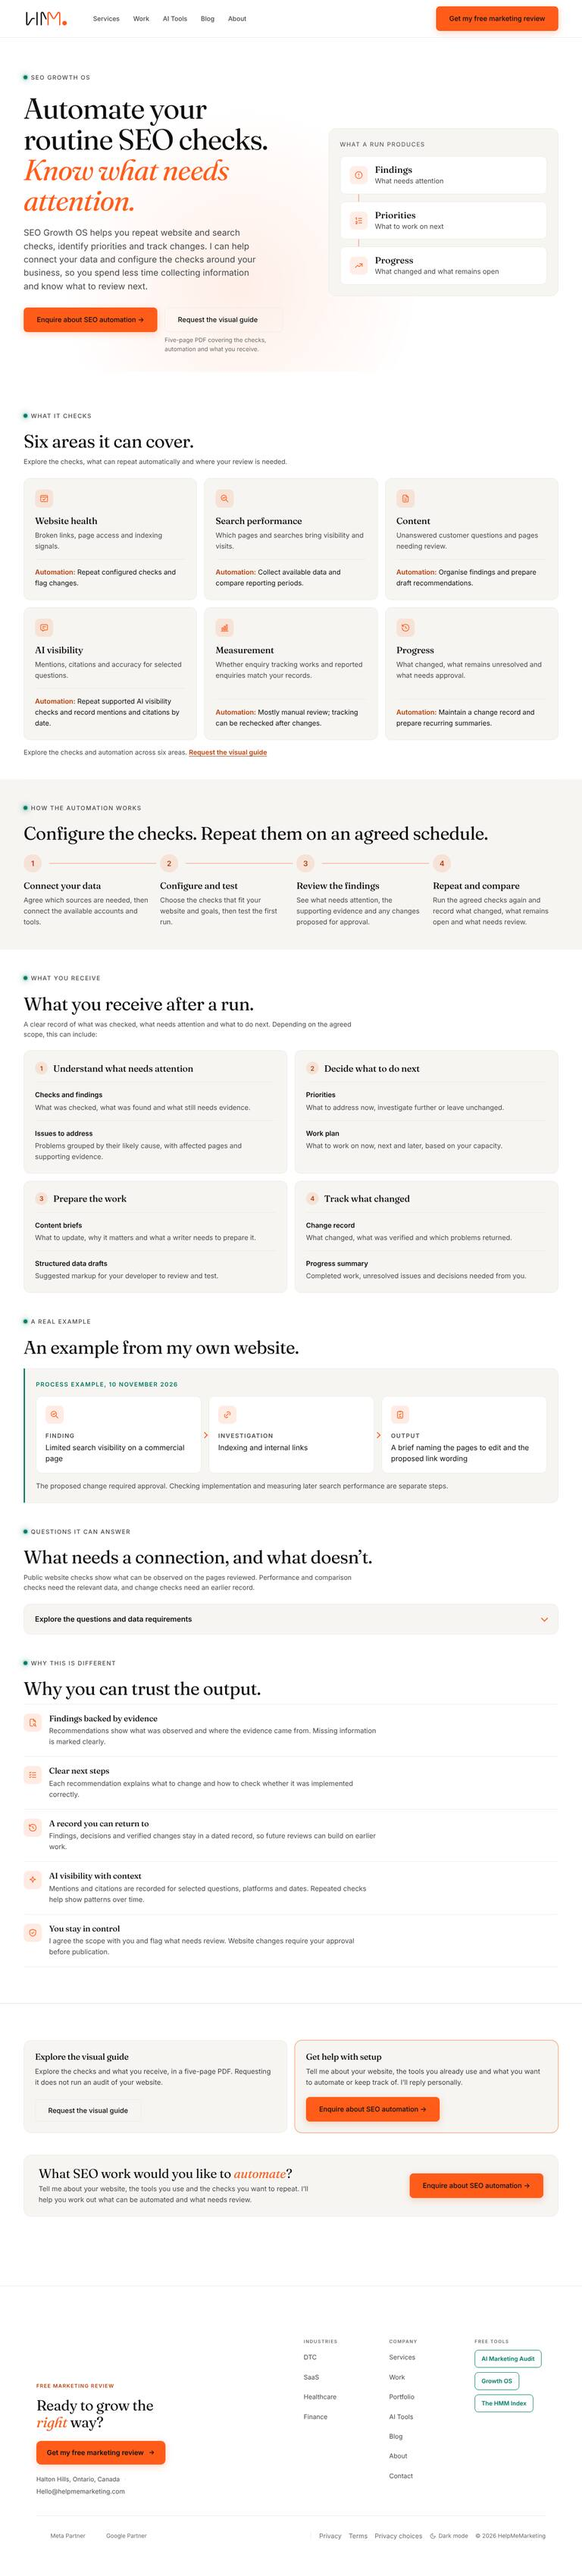
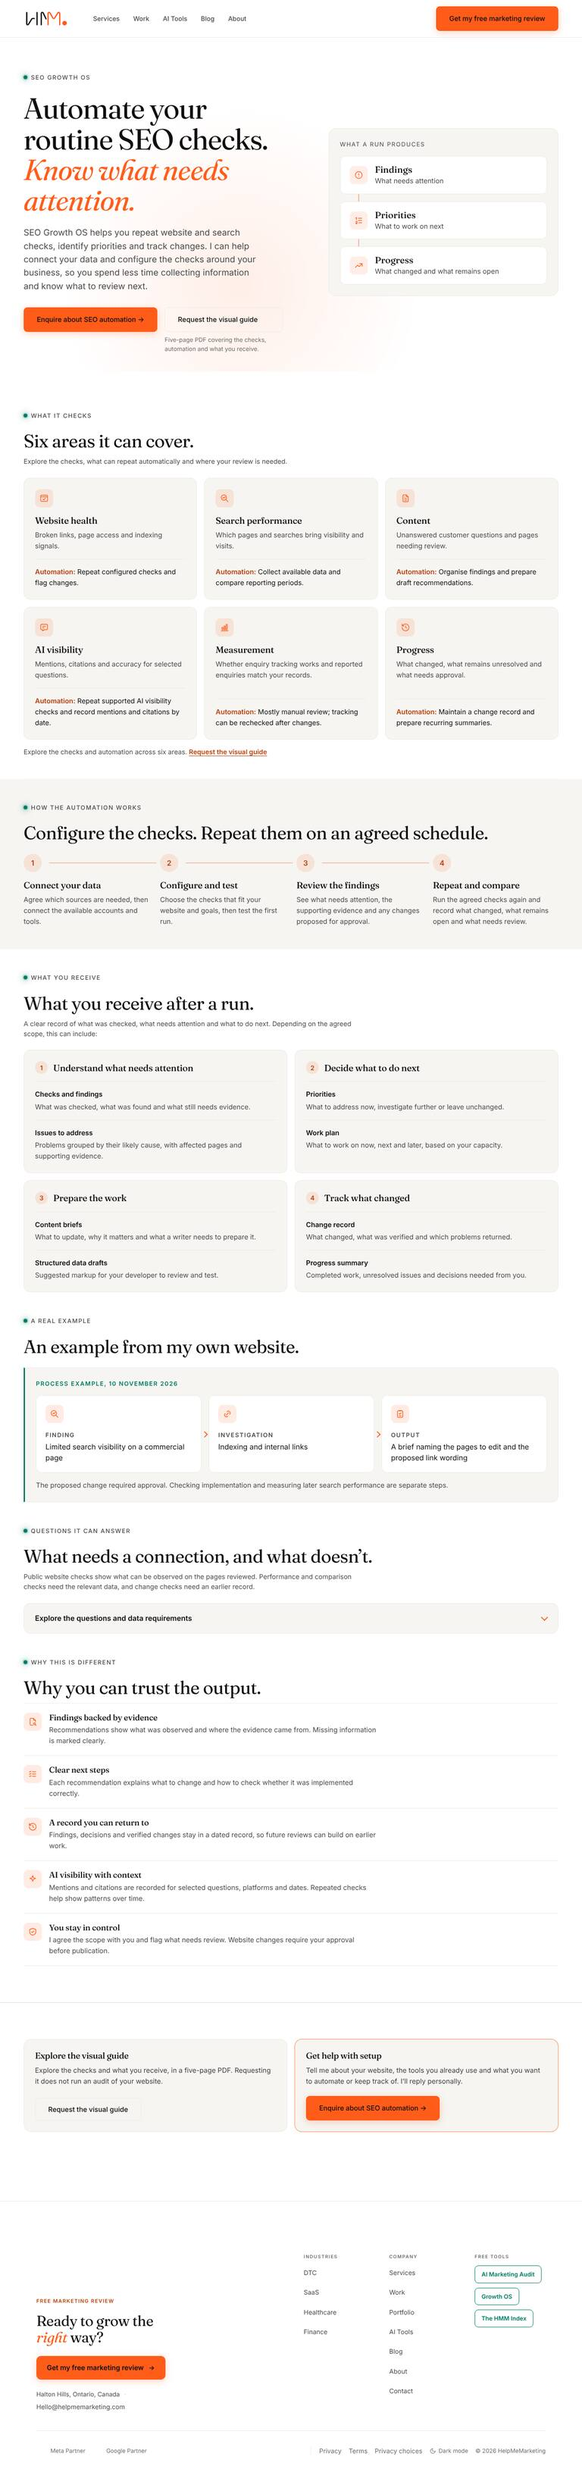
SEO Growth OS page: end on the two path cards
Removes the separate final automation band, which repeated the setup card's
enquiry button. The page now closes with one choice: explore the guide or
enquire about setup, with 72px (48 on phones) before the footer.
Screenshots refreshed.

Claude-Session: https://claude.ai/code/session_018Zqg63gvGy44sVUM5NEbiy

diff --git a/styles.css b/styles.css
@@ -6303,13 +6303,8 @@ body.redesign-prototype [data-screen-label="seo-growth-os"] .gos-paths .ind2-car
 body.redesign-prototype [data-screen-label="seo-growth-os"] .gos-paths .ind2-card h3 { margin: 0; }
 body.redesign-prototype [data-screen-label="seo-growth-os"] .gos-paths .ind2-card p { margin: 8px 0 20px; font-size: 15px; line-height: 1.6; color: var(--text-body); }
 body.redesign-prototype [data-screen-label="seo-growth-os"] .gos-paths .ind2-card .btn { margin-top: auto; }
+body.redesign-prototype [data-screen-label="seo-growth-os"] .gos-paths { padding-bottom: 72px; }
 body.redesign-prototype [data-screen-label="seo-growth-os"] .gos-paths .gos-path-main { border-color: rgba(255, 92, 26, 0.55); box-shadow: 0 0 0 1px rgba(255, 92, 26, 0.25); }
-body.redesign-prototype [data-screen-label="seo-growth-os"] .gos-final-section { padding: 0 0 72px; }
-body.redesign-prototype [data-screen-label="seo-growth-os"] .gos-final { display: flex; align-items: center; justify-content: space-between; gap: 24px; padding: 24px 32px; border: 1px solid var(--border); border-radius: 16px; background: var(--bg-elevated); }
-body.redesign-prototype [data-screen-label="seo-growth-os"] .gos-final h2 { margin: 0 0 4px; font-family: 'Fraunces', Georgia, serif; font-size: 28px; font-weight: 400; line-height: 1.2; letter-spacing: -.01em; }
-body.redesign-prototype [data-screen-label="seo-growth-os"] .gos-final h2 em { font-style: italic; color: var(--cta); }
-body.redesign-prototype [data-screen-label="seo-growth-os"] .gos-final p { margin: 0; max-width: 620px; font-size: 15px; line-height: 1.6; color: var(--text-muted); }
-body.redesign-prototype [data-screen-label="seo-growth-os"] .gos-final .btn { flex: none; }
 @media (max-width: 900px) {
   body.redesign-prototype [data-screen-label="seo-growth-os"] .gos-areas { grid-template-columns: repeat(2, 1fr); }
   body.redesign-prototype [data-screen-label="seo-growth-os"] .gos-flow { grid-template-columns: repeat(2, 1fr); }
@@ -6328,7 +6323,5 @@ body.redesign-prototype [data-screen-label="seo-growth-os"] .gos-final .btn { fl
   body.redesign-prototype [data-screen-label="seo-growth-os"] .gos-stages li:not(:last-child)::after { top: auto; bottom: -13px; right: auto; left: 28px; transform: rotate(135deg); }
   body.redesign-prototype [data-screen-label="seo-growth-os"] .gos-details > summary { padding: 16px 20px; }
   body.redesign-prototype [data-screen-label="seo-growth-os"] .gos-details-body { padding: 0 16px 16px; }
-  body.redesign-prototype [data-screen-label="seo-growth-os"] .gos-final { flex-direction: column; align-items: flex-start; padding: 24px 20px; }
-  body.redesign-prototype [data-screen-label="seo-growth-os"] .gos-final h2 { font-size: 24px; }
-  body.redesign-prototype [data-screen-label="seo-growth-os"] .gos-final-section { padding-bottom: 48px; }
+  body.redesign-prototype [data-screen-label="seo-growth-os"] .gos-paths { padding-bottom: 48px; }
 }

diff --git a/seo-growth-os.html b/seo-growth-os.html
@@ -515,17 +515,6 @@ height="0" width="0" class="gtm-ns"></iframe></noscript>
   </div>
 </section>
 
-<section class="gos-final-section">
-  <div class="container">
-    <div class="gos-final">
-      <div>
-        <h2>What SEO work would you like to <em>automate</em>?</h2>
-        <p>Tell me about your website, the tools you use and the checks you want to repeat. I&rsquo;ll help you work out what can be automated and what needs review.</p>
-      </div>
-      <a class="btn btn-primary" href="/contact?entry=seo_automation#contact-form">Enquire about SEO automation &rarr;</a>
-    </div>
-  </div>
-</section>
 
 </div>
 

diff --git a/docs/HMM_Design_System.md b/docs/HMM_Design_System.md
@@ -1653,4 +1653,4 @@ No inline styles, no Review or Rating markup; JSON-LD is BreadcrumbList, Article
 
 **SEO Growth OS page positioning, first pass (2026-11-11, founder review).** `/seo-growth-os` leads with recurring checks and the two paths: H1 "Automate your routine SEO checks. Know what to work on next."; buttons "Request SEO Growth OS" (the email gate) and "Get help with setup" (`/contact#contact-form`; orange by the sitewide contact-button rule); notes "Setup is required. You review and approve changes before anything goes live." and "Free bundle · release 2.2.1 · no card. Supported AI tools and some data sources may have their own costs." The page now matches the installed skill (no aggregate score; six steps): the "Health Score 0–100" output became "Coverage and status", the starter prompt asks for category status and coverage with no overall score, the trust copy lists unmeasured categories as missing evidence, and the Service and WebPage JSON-LD describe six steps, not a seven-stage 500-page programme. "Built in" now reads "included in the bundle; installation and setup required"; the outputs section says results depend on the checks chosen and evidence available; the "sample report is coming" promise was removed until a real redacted report exists; the closing box offers setup help instead of the free marketing review. Title "SEO Growth OS: SEO Automation and Setup | HelpMeMarketing". Open: the installed skill reports release 2.2.2 while the page says 2.2.1 (founder to confirm the bundle version); the reorganisation around the visitor's decisions and a real report example are the next pass.
 
-**SEO Growth OS page: checklist and automation offer (2026-11-11, founder review, supersedes the first-pass note above).** `/seo-growth-os` no longer offers the skills bundle; the skills, prompts, scripts and installation package stay private. Two paths: "Enquire about SEO automation" (primary, `/contact?entry=seo_automation#contact-form`) and "Request the full checklist" (outline button and text buttons with `data-gate-open`, the existing email gate). Page order: hero (H1 "Automate your routine SEO checks. Know what needs attention."); What it checks (`#checks`, six-area `mr-table` matching the checklist's six areas, with examples and what can be automated, `.gos-map`); How the automation works (four `ind2-step`s: connect data, configure checks, review and approve, repeat on a schedule); What you receive (the outputs list, "Phased plan" replaces "30/60/90 Plan"); Questions it can answer (the matrix, columns "Website only" and "With connected data", legend "Website / Connect / Costs"); Why you can trust the output; two path cards (`.gos-paths`); final CTA "See what I check, and what I can automate for you." Removed: the node row, business-type picker, specialist skills stack, starter prompt, the three-column method block and their script. The gate dialog asks for an email and optional consent and sends "the checklist" (button "Send me the checklist"; backend keys `form=growth-os-download`, `product=seo`, Turnstile action and the `growth_os_download` event are unchanged for continuity). The customer download is the SEO Growth OS Visual Guide (founder decision 2026-11-11; the checklist PDF and its generator were retired the same day; cut from nine pages to five later that day, founder brief; tiles shortened and two badges retired the same evening, founder), generated by `docs/growth-os-checklist/gen_visual_guide.py` (edit the content lists there, never the HTML) and rendered by `build_visual_guide.mjs` to `HMM-SEO-Growth-OS-Visual-Guide.pdf`, which warns if any page overflows. Five fixed US Letter pages in HMM colours (warm paper, white cards, Signal Orange accents, Fraunces and Inter, no standalone cover): 1 "Where should you start?" (compact Obsidian intro with the logo, a problem-to-starting-point table, the six areas as an icon grid, the label legend with two rows, Draft + review and Human review, and the one scope note); 2 Website health and search performance, 3 Content and AI visibility, 4 Measurement and progress, each six grouped tiles in two columns and three rows; a tile is its icon and title, any badge, one short description (what is checked, what runs automatically and what a person reviews, in plain sentences; no separate Checks, Automates or Review labels), a thin divider and "You receive:" in orange with one output, body text 11pt, every original check kept; 5 the six-stage flow (stages can span runs), the 10 November 2026 process example, what you receive, what setup needs and the clickable enquiry link (`/contact?entry=seo_automation#contact-form`). Tile badges: "Draft + review" (prepares suggestions for a person to assess) and "Human review" (needs judgment or validation), plus dashed tags "Optional" and "Only where it applies" for conditional tiles. A tile whose only mode was scheduled or around a change carries no badge and goes straight from title to description; "Scheduled check" and "On change" are retired from the guide and its legend (founder, 2026-11-11), and scheduling is described in the tile text instead. Do not add replacement badges. Spacing (founder, 2026-11-11): one scale of 4, 8, 12, 16 and 24px set as tokens in the guide CSS. Every page has the same margins (0.5in top, 0.55in sides, footer 0.35in from the bottom) and content starts 48px from the top. Blocks on a page are 24px apart, a heading sits 12px above its block, grids use 16px gaps, boxes use 16px 20px padding and a 12px radius, table rows use 8px 20px, and inside a tile the title, badge, description and divider are 12px apart. Change the tokens, not individual rules, and keep at least 16px between the last block and the footer. Video is left out because the current images module has no specific video checks; location and service pages follow rule registry G-12 (useful differences, not a uniqueness percentage); the conversion card follows the CRO audit (offer, calls to action, friction). No capability count, no repeated not-an-audit, ranking, score or skill-file disclaimers, and no internal test history. The page, gate ("Request the visual guide", "Where should I send the guide?", "Send me the guide", description "Explore the checks and automation across six areas, what you receive and where human review is needed."; since 2026-11-11 the newsletter checkbox is replaced by the notice `.consent-note` "Requesting the guide also adds you to my occasional SEO notes and updates. Every email has an unsubscribe link.", founder decision) and email name the SEO Growth OS Visual Guide, and the page says "Explore the checks and automation across six areas" rather than a count. The forms script emails it from Drive (`SEO_CHECKLIST_FILE_ID`, which the founder sets after uploading the PDF); `checklistBlob_()` refuses a placeholder ID, a missing or unshared file and anything whose Drive type or content is not PDF, and a checklist request replies `email: 'sent'` or `'failed'` alongside `saved: 'lead'`, so the dialog shows "Check your inbox" only for `sent` and otherwise says the request is saved and I will send it by hand (the row records the failure reason). New contact entry tags `seo_automation` and `ai_seo_setup` (contact.html and the forms script). `/ai-seo-agency` "SEO automation" cards: "See what it checks" (to `/seo-growth-os#checks`) and "Get help with setup" (`entry=ai_seo_setup`). Also aligned: `/services/seo`, `/ai-tools` card, `/work` (no check count until the inventory is verified; its "free to download" line now names Meta Growth OS only). Copy pass (2026-11-12, founder review): the page tells one story (what you can automate, what gets checked, how setup works, what you receive, a real example, what to do next). The hero note describes the guide ("The visual guide is a five-page PDF covering the checks, automation and what you receive."); the four steps are Connect your data, Configure and test, Review the findings, Repeat and compare (the Service JSON-LD offer catalogue lists the same four); "What you receive after a run" has eight plain cards (Checks and findings, Issues to address, Priorities, Work plan, Content briefs, Structured data drafts, Change record, Progress summary); a new section, `.gos-example` (mint left rule, "Process example, 10 November 2026"), repeats the guide's example with no ranking claim; the questions table words each question as what can be observed, and cells that need a previous run or a specific source say "Needs earlier results" or "Needs relevant data" (`.c.part`, short forms "Earlier run" and "Data source" at 680px and below) instead of a tick; the trust section is five plain statements (evidence, next steps, a dated record, AI visibility with context, you stay in control); the final CTA asks "What SEO work would you like to automate?" with one enquiry button. Visual hierarchy (2026-11-12, founder review, same copy): the hero image is replaced by `.gos-run` ("What a run produces": Findings, Priorities, Progress as three connected cards, no numbers), and the guide note sits under the outline button (`.gos-guide-cta`); the six-area table became six `.gos-area` cards (icon, Fraunces 20 title, examples, divider, "Automation:" line; 3/2/1 columns at desktop, 900 and 720); the four steps are a numbered `.gos-flow` sequence on a full-bleed Warm Ivory `.gos-band` (stacked with a vertical line at 720); the eight outputs sit in four numbered `.gos-group`s (Understand what needs attention, Decide what to do next, Prepare the work, Track what changed); the example is the proof panel with three `.gos-stages` (Finding, Investigation, Output) and the approval sentence; the questions table sits in a native `details.gos-details` ("Explore the questions and data requirements", keyboard accessible, content in the HTML); the trust statements are compact `.gos-trust-r` rows with small icons; the setup path card (`.gos-path-main`) carries an orange border; the closing is a compact `.gos-final` band with 72px before the footer. One card system: 24px padding (20 at 720), 14px radius, 16px gaps, 40px icon tiles on `--orange-glow`, 15px body. `/contact?entry=seo_automation` relabels the need field "Tell me what you would like to automate" with an automation example in its placeholder. Release order: upload the visual guide PDF, paste its ID, redeploy the forms script, then merge the page.
+**SEO Growth OS page: checklist and automation offer (2026-11-11, founder review, supersedes the first-pass note above).** `/seo-growth-os` no longer offers the skills bundle; the skills, prompts, scripts and installation package stay private. Two paths: "Enquire about SEO automation" (primary, `/contact?entry=seo_automation#contact-form`) and "Request the full checklist" (outline button and text buttons with `data-gate-open`, the existing email gate). Page order: hero (H1 "Automate your routine SEO checks. Know what needs attention."); What it checks (`#checks`, six-area `mr-table` matching the checklist's six areas, with examples and what can be automated, `.gos-map`); How the automation works (four `ind2-step`s: connect data, configure checks, review and approve, repeat on a schedule); What you receive (the outputs list, "Phased plan" replaces "30/60/90 Plan"); Questions it can answer (the matrix, columns "Website only" and "With connected data", legend "Website / Connect / Costs"); Why you can trust the output; two path cards (`.gos-paths`); final CTA "See what I check, and what I can automate for you." Removed: the node row, business-type picker, specialist skills stack, starter prompt, the three-column method block and their script. The gate dialog asks for an email and optional consent and sends "the checklist" (button "Send me the checklist"; backend keys `form=growth-os-download`, `product=seo`, Turnstile action and the `growth_os_download` event are unchanged for continuity). The customer download is the SEO Growth OS Visual Guide (founder decision 2026-11-11; the checklist PDF and its generator were retired the same day; cut from nine pages to five later that day, founder brief; tiles shortened and two badges retired the same evening, founder), generated by `docs/growth-os-checklist/gen_visual_guide.py` (edit the content lists there, never the HTML) and rendered by `build_visual_guide.mjs` to `HMM-SEO-Growth-OS-Visual-Guide.pdf`, which warns if any page overflows. Five fixed US Letter pages in HMM colours (warm paper, white cards, Signal Orange accents, Fraunces and Inter, no standalone cover): 1 "Where should you start?" (compact Obsidian intro with the logo, a problem-to-starting-point table, the six areas as an icon grid, the label legend with two rows, Draft + review and Human review, and the one scope note); 2 Website health and search performance, 3 Content and AI visibility, 4 Measurement and progress, each six grouped tiles in two columns and three rows; a tile is its icon and title, any badge, one short description (what is checked, what runs automatically and what a person reviews, in plain sentences; no separate Checks, Automates or Review labels), a thin divider and "You receive:" in orange with one output, body text 11pt, every original check kept; 5 the six-stage flow (stages can span runs), the 10 November 2026 process example, what you receive, what setup needs and the clickable enquiry link (`/contact?entry=seo_automation#contact-form`). Tile badges: "Draft + review" (prepares suggestions for a person to assess) and "Human review" (needs judgment or validation), plus dashed tags "Optional" and "Only where it applies" for conditional tiles. A tile whose only mode was scheduled or around a change carries no badge and goes straight from title to description; "Scheduled check" and "On change" are retired from the guide and its legend (founder, 2026-11-11), and scheduling is described in the tile text instead. Do not add replacement badges. Spacing (founder, 2026-11-11): one scale of 4, 8, 12, 16 and 24px set as tokens in the guide CSS. Every page has the same margins (0.5in top, 0.55in sides, footer 0.35in from the bottom) and content starts 48px from the top. Blocks on a page are 24px apart, a heading sits 12px above its block, grids use 16px gaps, boxes use 16px 20px padding and a 12px radius, table rows use 8px 20px, and inside a tile the title, badge, description and divider are 12px apart. Change the tokens, not individual rules, and keep at least 16px between the last block and the footer. Video is left out because the current images module has no specific video checks; location and service pages follow rule registry G-12 (useful differences, not a uniqueness percentage); the conversion card follows the CRO audit (offer, calls to action, friction). No capability count, no repeated not-an-audit, ranking, score or skill-file disclaimers, and no internal test history. The page, gate ("Request the visual guide", "Where should I send the guide?", "Send me the guide", description "Explore the checks and automation across six areas, what you receive and where human review is needed."; since 2026-11-11 the newsletter checkbox is replaced by the notice `.consent-note` "Requesting the guide also adds you to my occasional SEO notes and updates. Every email has an unsubscribe link.", founder decision) and email name the SEO Growth OS Visual Guide, and the page says "Explore the checks and automation across six areas" rather than a count. The forms script emails it from Drive (`SEO_CHECKLIST_FILE_ID`, which the founder sets after uploading the PDF); `checklistBlob_()` refuses a placeholder ID, a missing or unshared file and anything whose Drive type or content is not PDF, and a checklist request replies `email: 'sent'` or `'failed'` alongside `saved: 'lead'`, so the dialog shows "Check your inbox" only for `sent` and otherwise says the request is saved and I will send it by hand (the row records the failure reason). New contact entry tags `seo_automation` and `ai_seo_setup` (contact.html and the forms script). `/ai-seo-agency` "SEO automation" cards: "See what it checks" (to `/seo-growth-os#checks`) and "Get help with setup" (`entry=ai_seo_setup`). Also aligned: `/services/seo`, `/ai-tools` card, `/work` (no check count until the inventory is verified; its "free to download" line now names Meta Growth OS only). Copy pass (2026-11-12, founder review): the page tells one story (what you can automate, what gets checked, how setup works, what you receive, a real example, what to do next). The hero note describes the guide ("The visual guide is a five-page PDF covering the checks, automation and what you receive."); the four steps are Connect your data, Configure and test, Review the findings, Repeat and compare (the Service JSON-LD offer catalogue lists the same four); "What you receive after a run" has eight plain cards (Checks and findings, Issues to address, Priorities, Work plan, Content briefs, Structured data drafts, Change record, Progress summary); a new section, `.gos-example` (mint left rule, "Process example, 10 November 2026"), repeats the guide's example with no ranking claim; the questions table words each question as what can be observed, and cells that need a previous run or a specific source say "Needs earlier results" or "Needs relevant data" (`.c.part`, short forms "Earlier run" and "Data source" at 680px and below) instead of a tick; the trust section is five plain statements (evidence, next steps, a dated record, AI visibility with context, you stay in control); the final CTA asks "What SEO work would you like to automate?" with one enquiry button. Visual hierarchy (2026-11-12, founder review, same copy): the hero image is replaced by `.gos-run` ("What a run produces": Findings, Priorities, Progress as three connected cards, no numbers), and the guide note sits under the outline button (`.gos-guide-cta`); the six-area table became six `.gos-area` cards (icon, Fraunces 20 title, examples, divider, "Automation:" line; 3/2/1 columns at desktop, 900 and 720); the four steps are a numbered `.gos-flow` sequence on a full-bleed Warm Ivory `.gos-band` (stacked with a vertical line at 720); the eight outputs sit in four numbered `.gos-group`s (Understand what needs attention, Decide what to do next, Prepare the work, Track what changed); the example is the proof panel with three `.gos-stages` (Finding, Investigation, Output) and the approval sentence; the questions table sits in a native `details.gos-details` ("Explore the questions and data requirements", keyboard accessible, content in the HTML); the trust statements are compact `.gos-trust-r` rows with small icons; the setup path card (`.gos-path-main`) carries an orange border, and the two path cards are the close of the page (the separate final automation band was removed the same day, founder review, so the last choice is guide or setup), with 72px (48 at 720) before the footer. One card system: 24px padding (20 at 720), 14px radius, 16px gaps, 40px icon tiles on `--orange-glow`, 15px body. `/contact?entry=seo_automation` relabels the need field "Tell me what you would like to automate" with an automation example in its placeholder. Release order: upload the visual guide PDF, paste its ID, redeploy the forms script, then merge the page.
